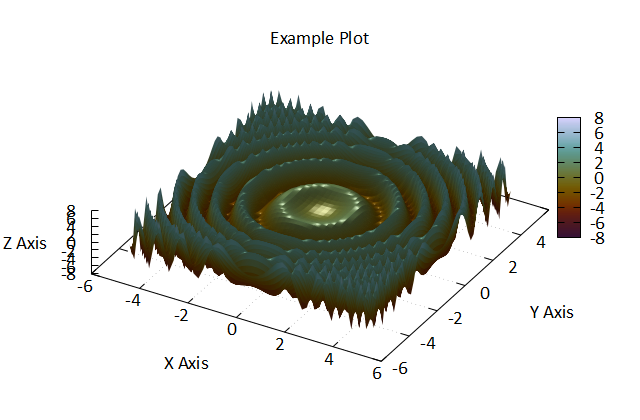
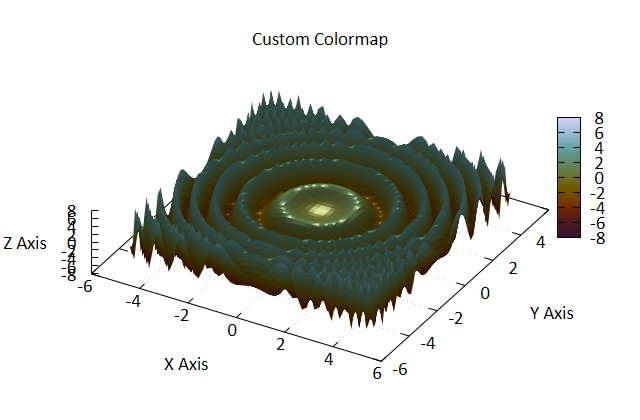
Update examples

diff --git a/README.md b/README.md
@@ -47,54 +47,22 @@ program example
     ! Local Variables
     real(real64), dimension(n) :: x, y1, y2
     type(plot_2d) :: plt
-    type(plot_data_2d) :: d1, d2
-    class(plot_axis), pointer :: xAxis, yAxis
-    type(legend), pointer :: leg
     
     ! Initialize the plot object
     call plt%initialize()
-
-    ! Define titles
+    call plt%show_legend(.true.)
     call plt%set_title("Example Plot")
-    call plt%set_font_size(14)
-
-    xAxis => plt%get_x_axis()
-    call xAxis%set_title("X Axis")
-
-    yAxis => plt%get_y_axis()
-    call yAxis%set_title("Y Axis")
-
-    ! Establish legend properties
-    leg => plt%get_legend()
-    call leg%set_is_visible(.true.)
-    call leg%set_draw_inside_axes(.false.)
-    call leg%set_horizontal_position(LEGEND_CENTER)
-    call leg%set_vertical_position(LEGEND_BOTTOM)
-    call leg%set_draw_border(.false.)
+    call plt%set_x_axis_title("X Axis")
+    call plt%set_y_axis_title("Y Axis")
 
     ! Define the data, and then add it to the plot
     x = linspace(0.0d0, 10.0d0, n)
     y1 = sin(5.0d0 * x)
     y2 = 2.0d0 * cos(2.0d0 * x)
 
-    call d1%define_data(x, y1)
-    call d2%define_data(x, y2)
-
-    ! Define properties for each data set
-    call d1%set_name("Data Set 1")
-    call d1%set_draw_markers(.true.)
-    call d1%set_marker_frequency(10)
-    call d1%set_marker_style(MARKER_EMPTY_CIRCLE)
-    call d1%set_marker_scaling(2.0)
-
-    call d2%set_name("Data Set 2")
-    call d2%set_line_style(LINE_DASHED)
-    call d2%set_line_width(2.0)
-
-    ! Add the data sets to the plot
-    call plt%push(d1)
-    call plt%push(d2)
-
+    call plt%push(x, y1, lw = 2.0, name = "Data Set 1")
+    call plt%push(x, y2, lw = 2.0, ls = LINE_DASHED, name = "Data Set 2")
+    
     ! Let GNUPLOT draw the plot
     call plt%draw()
 end program
@@ -103,10 +71,8 @@ This is the plot resulting from the above program.
 ![](images/example_2d_plot_1.png?raw=true)
 
 ## Example 2
-Another example of a similar two-dimensional plot to the plot in example 1 is given below.  This plot shifts the x-axis to the zero point along the y-axis.
+Another example of a similar two-dimensional plot to the plot in example 1 is given below.  This plot shifts the x-axis to the zero point along the y-axis.  Additionally, this example highlights the use of the plot_axis, legend, and plot_data_2d types to gain more control over the plot.
 ```fortran
-! fplot_2d_2.f90
-
 program example
     use, intrinsic :: iso_fortran_env
     use fplot_core
@@ -178,7 +144,7 @@ The following example illustrates how to create a three-dimensional surface plot
 program example
     use fplot_core
     use iso_fortran_env
-    use forcolormap, only : colormaps_list
+    use forcolormap
     implicit none
 
     ! Parameters
@@ -190,8 +156,6 @@ program example
     real(real64), pointer, dimension(:,:) :: x, y
     real(real64), dimension(m, n) :: z
     type(surface_plot) :: plt
-    type(surface_plot_data) :: d1
-    class(plot_axis), pointer :: xAxis, yAxis, zAxis
     type(custom_colormap) :: map
     type(cmap) :: colors
 
@@ -207,6 +171,10 @@ program example
     ! Initialize the plot
     call plt%initialize()
     call plt%set_colormap(map)
+    call plt%set_x_axis_title("X Axis")
+    call plt%set_y_axis_title("Y Axis")
+    call plt%set_z_axis_title("Z Axis")
+    call plt%set_title("Custom Colormap")
 
     ! Establish lighting
     call plt%set_use_lighting(.true.)
@@ -214,23 +182,10 @@ program example
     ! Set the orientation of the plot
     call plt%set_elevation(20.0d0)
     call plt%set_azimuth(30.0d0)
-    
-    ! Define titles
-    call plt%set_title("Example Plot")
-    
-    xAxis => plt%get_x_axis()
-    call xAxis%set_title("X Axis")
-
-    yAxis => plt%get_y_axis()
-    call yAxis%set_title("Y Axis")
-
-    zAxis => plt%get_z_axis()
-    call zAxis%set_title("Z Axis")
 
     ! Define the function to plot
     z = sqrt(x**2 + y**2) * sin(x**2 + y**2)
-    call d1%define_data(x, y, z)
-    call plt%push(d1)
+    call plt%push(x, y, z)
 
     ! Draw the plot
     call plt%draw()
@@ -279,7 +234,6 @@ program example
 
     ! Create the plot
     call plt%initialize()
-    call plt%set_font_size(14)
     xAxis => plt%get_x_axis()
     yAxis => plt%get_y_axis()
 
@@ -330,7 +284,6 @@ program example
     real(real64), parameter :: pi = 2.0d0 * acos(0.0d0)
     real(real64) :: t(npts), x(npts)
     type(plot_polar) :: plt
-    type(plot_data_2d) :: pd
 
     ! Create a function to plot
     t = linspace(-2.0d0 * pi, 2.0d0 * pi, npts)
@@ -342,10 +295,7 @@ program example
     call plt%set_title("Polar Plot Example")
     call plt%set_autoscale(.false.)
     call plt%set_radial_limits([0.0d0, 6.0d0])
-
-    call pd%define_data(t, x)
-    call pd%set_line_width(2.0)
-    call plt%push(pd)
+    call plt%push(t, x, lw = 2.0)
     call plt%draw()
 end program
 ```
